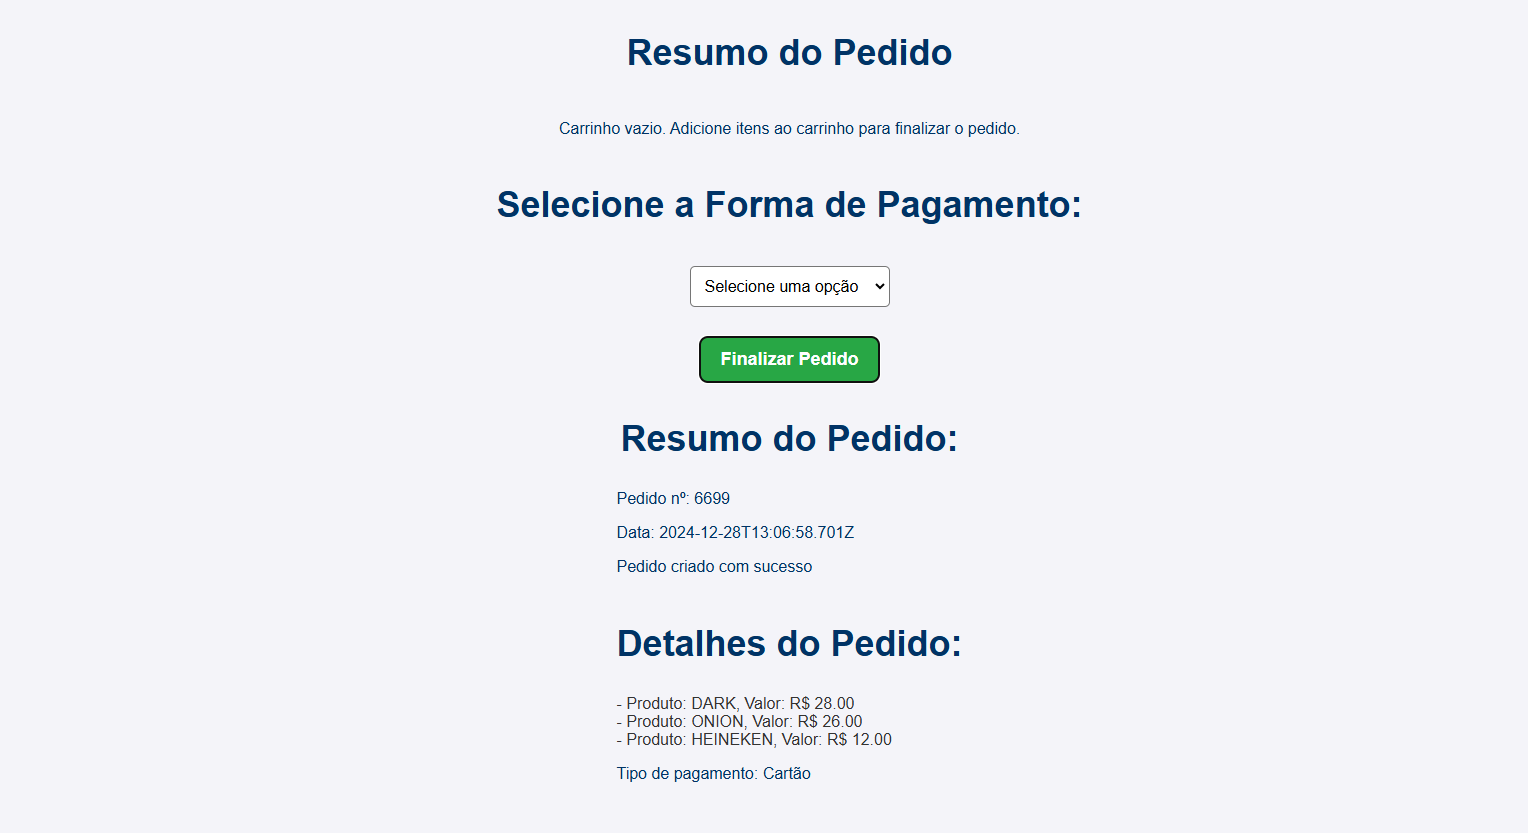
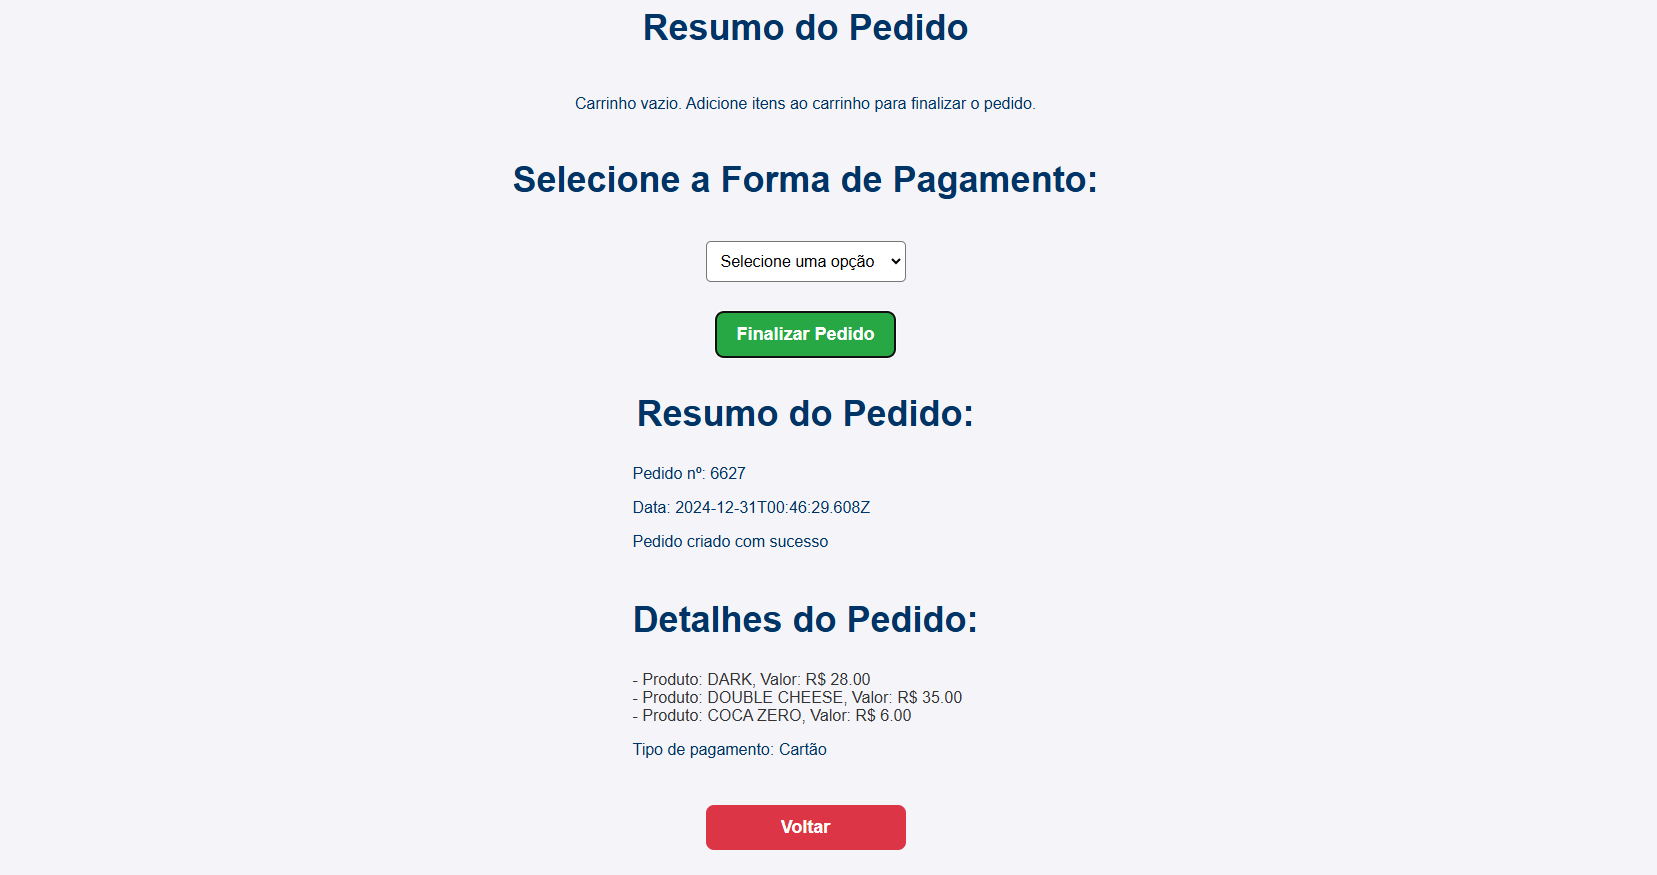
feat: adiciona botão para voltar e deslogar

Changed region(s): [[0.3076, 0.0, 0.7075, 0.9988]]

diff --git a/src/presentation/pages/finalizeOrder/FinalizeOrder.vue b/src/presentation/pages/finalizeOrder/FinalizeOrder.vue
@@ -1,5 +1,6 @@
 <script setup lang="ts">
 import { PropType, ref, onMounted } from "vue";
+import { useRouter } from "vue-router";
 import { Order, OrderModel } from "../../protocols";
 
 const { order } = defineProps({
@@ -10,6 +11,8 @@ const cart = ref<any[]>([]);
 const paymentOption = ref<string>("");
 const paymentOptions = ref<string[]>(["Cartão", "Dinheiro", "Pix"]);
 const orderDetails = ref<OrderModel>();
+
+const router = useRouter();
 
 const loadOrder = () => {
   const savedCart = localStorage.getItem("cart");
@@ -36,19 +39,23 @@ const finalizeOrder = async () => {
       paymentOption: paymentOption.value,
     };
 
-    const response = await order.order(orderData);
+    const response = await order?.order(orderData);
 
     orderDetails.value = response;
 
     localStorage.removeItem("cart");
     localStorage.removeItem("paymentOption");
-    cart.value = []; 
-    paymentOption.value = ""; 
+    cart.value = [];
+    paymentOption.value = "";
 
     alert("Pedido finalizado com sucesso!");
   } else {
     alert("Carrinho vazio ou opção de pagamento não selecionada.");
   }
+};
+
+const goBack = () => {
+  router.back();
 };
 
 onMounted(() => {
@@ -112,6 +119,8 @@ onMounted(() => {
         <p>Tipo de pagamento: {{ orderDetails.details.paymentOption }}</p>
       </ul>
     </div>
+
+    <button @click="goBack" class="back-btn">Voltar</button>
   </div>
 </template>
 
@@ -188,15 +197,22 @@ select {
   background-color: #218838;
 }
 
-pre {
-  background-color: #f1f1f1;
-  padding: 10px;
-  font-size: 14px;
-  color: #333;
-  border-radius: 5px;
-  margin-top: 20px;
-  max-width: 600px;
-  white-space: pre-wrap;
-  word-wrap: break-word;
+.back-btn {
+  margin-top: 30px;
+  padding: 12px 20px;
+  font-size: 18px;
+  font-weight: bold;
+  color: #fff;
+  background-color: #dc3545;
+  border: none;
+  border-radius: 8px;
+  cursor: pointer;
+  transition: background-color 0.3s ease;
+  width: 200px;
+  text-align: center;
+}
+
+.back-btn:hover {
+  background-color: #c82333;
 }
 </style>

diff --git a/src/presentation/pages/home/Home.vue b/src/presentation/pages/home/Home.vue
@@ -52,6 +52,11 @@ const finalizeOrder = () => {
   router.push({ name: "FinalizeOrder" });
 };
 
+const handleLogout = () => {
+  localStorage.removeItem("authToken");
+  router.push({ name: "Login" });
+};
+
 onMounted(() => {
   handleShowCategories();
   handleShowPayment();
@@ -75,6 +80,8 @@ onMounted(() => {
     <button @click="finalizeOrder" class="finalize-btn">
       Finalizar Pedido
     </button>
+
+    <button @click="handleLogout" class="logout-btn">Deslogar</button>
   </div>
 </template>
 
@@ -140,5 +147,24 @@ h1 {
 
 .finalize-btn:hover {
   background-color: #218838;
+}
+
+.logout-btn {
+  margin-top: 20px;
+  padding: 12px 20px;
+  font-size: 18px;
+  font-weight: bold;
+  color: #fff;
+  background-color: #dc3545;
+  border: none;
+  border-radius: 8px;
+  cursor: pointer;
+  transition: background-color 0.3s ease;
+  width: 200px;
+  text-align: center;
+}
+
+.logout-btn:hover {
+  background-color: #c82333;
 }
 </style>

diff --git a/src/presentation/pages/MenuOpcions/MenuOptions.vue b/src/presentation/pages/MenuOpcions/MenuOptions.vue
@@ -72,6 +72,10 @@ const addToCart = (title: string, value: number) => {
   alert(`Item adicionado: ${item.title} - R$ ${item.value}`);
 };
 
+const goBack = () => {
+  router.back();
+};
+
 onMounted(() => {
   loadCart();
   const routeState = router.currentRoute.value.params;
@@ -141,6 +145,8 @@ onMounted(() => {
     </ul>
 
     <button @click="clearCart">Limpar Carrinho</button>
+
+    <button @click="goBack" class="back-btn">Voltar</button>
   </div>
 </template>
 
@@ -225,5 +231,24 @@ button {
 
 button:hover {
   background-color: #002d56;
+}
+
+.back-btn {
+  margin-top: 30px;
+  padding: 12px 20px;
+  font-size: 18px;
+  font-weight: bold;
+  color: #fff;
+  background-color: #dc3545;
+  border: none;
+  border-radius: 8px;
+  cursor: pointer;
+  transition: background-color 0.3s ease;
+  width: 200px;
+  text-align: center;
+}
+
+.back-btn:hover {
+  background-color: #c82333;
 }
 </style>
